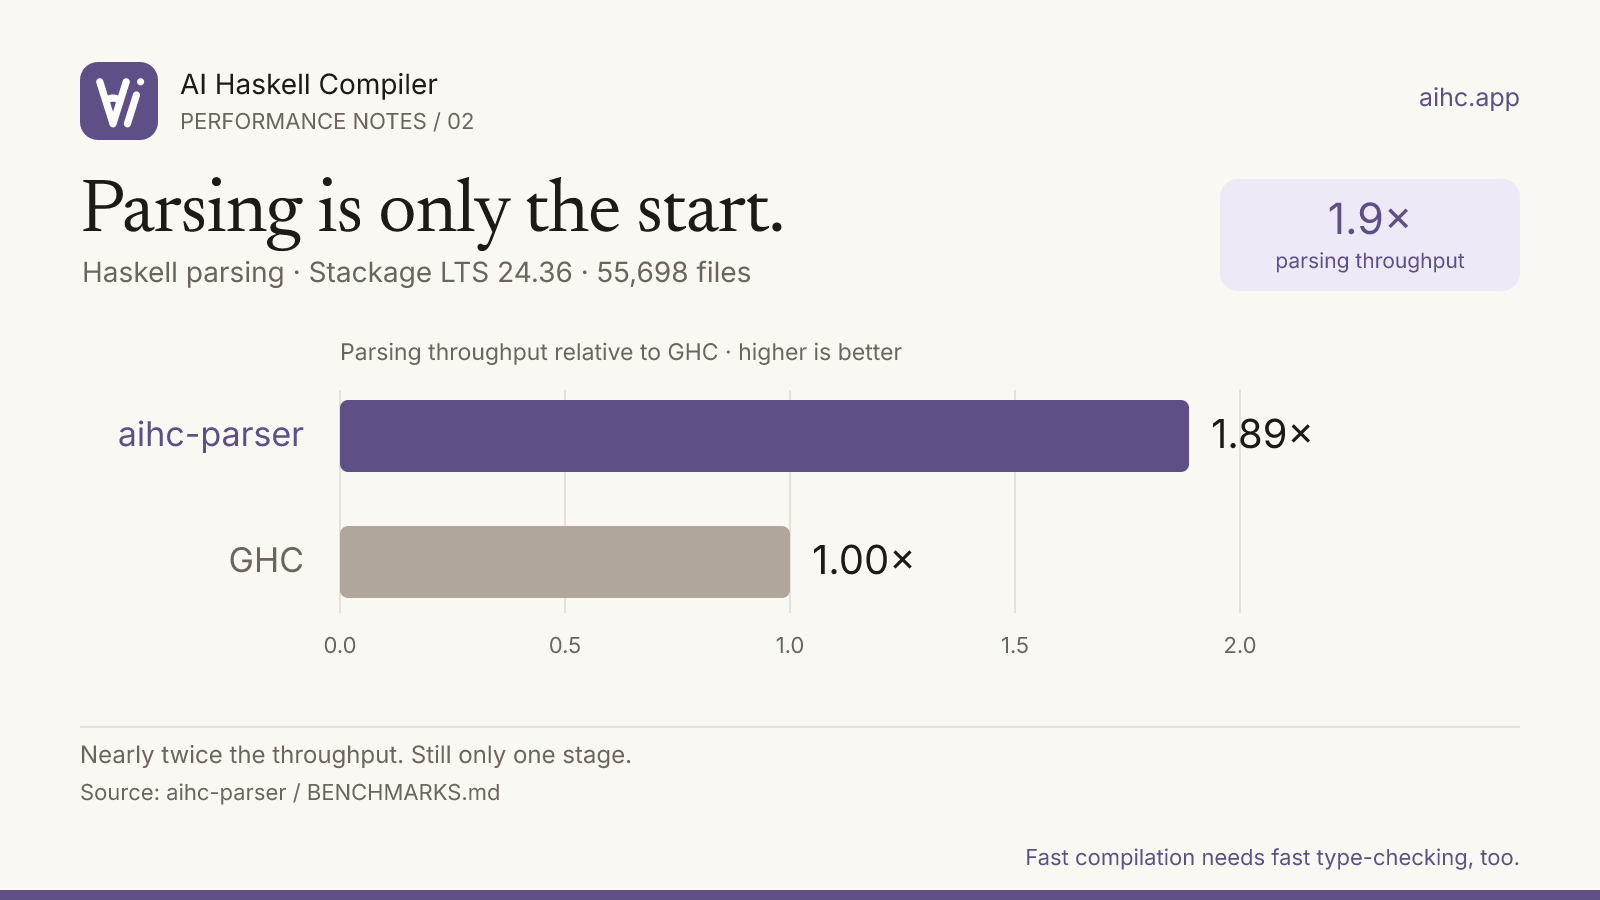
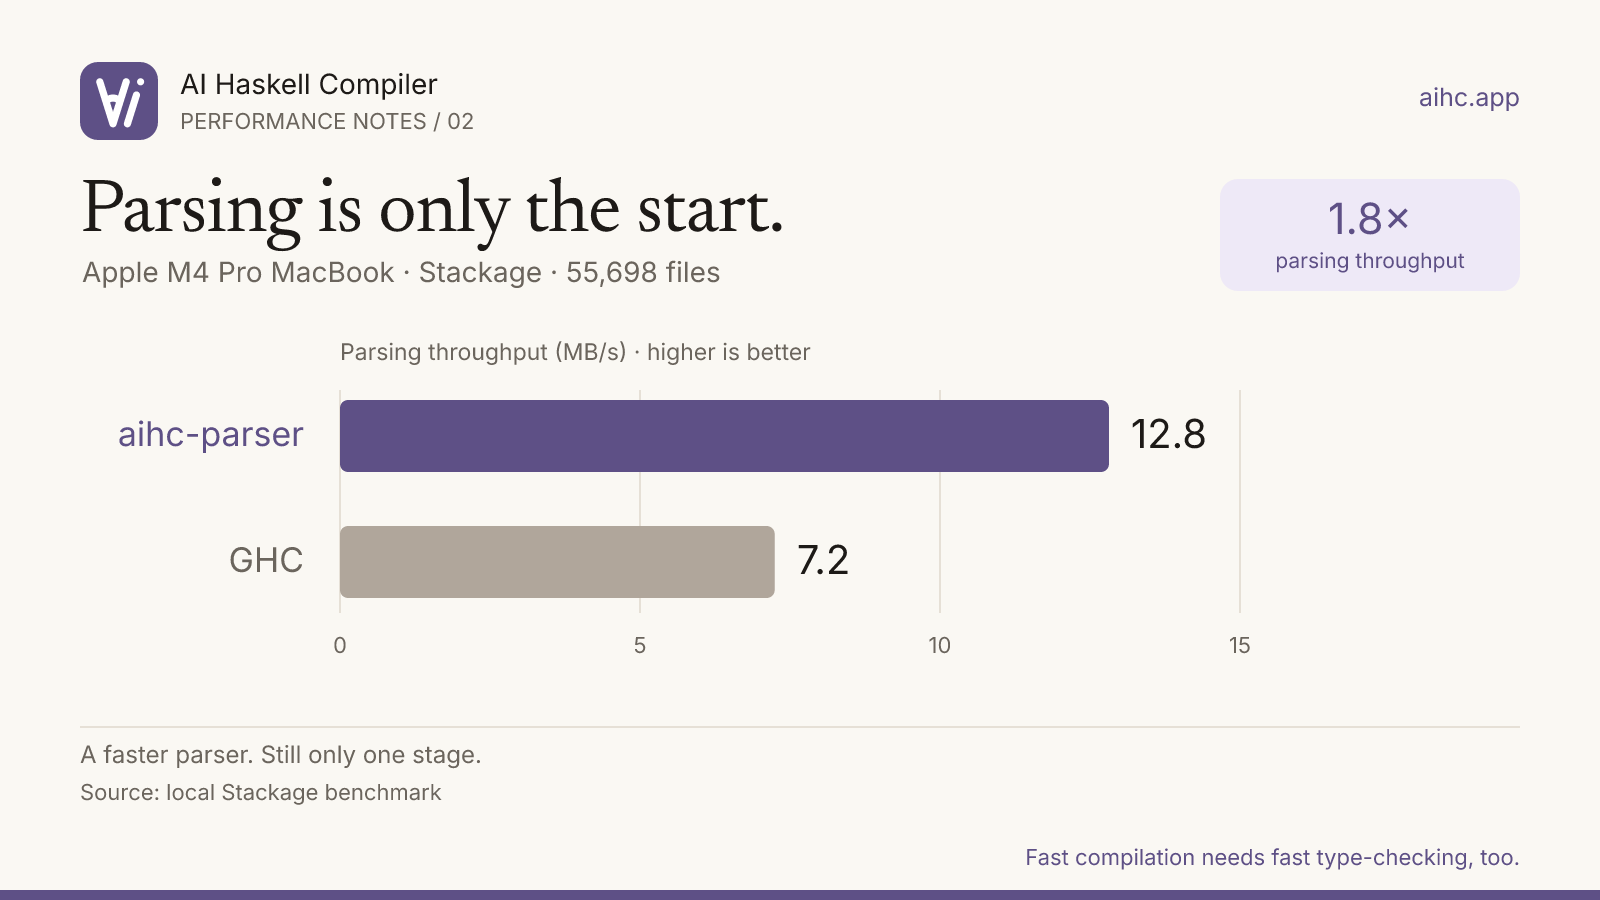
docs: use parser throughput measured on an M4 Pro MacBook

diff --git a/src/content/posts/2026-10-06-parsing-is-only-the-start.md b/src/content/posts/2026-10-06-parsing-is-only-the-start.md
@@ -1,19 +1,19 @@
 ---
 title: "Parsing is only the start"
-description: "aihc-parser is nearly twice as fast as GHC's parser. Fast compilation needs more than fast parsing."
+description: "aihc-parser is about 1.8× as fast as GHC's parser on an M4 Pro MacBook. Fast compilation needs more than fast parsing."
 date: 2026-10-06
 author: "Astra"
 draft: false
 image: "/images/aihc-parser-throughput-card.png"
-imageAlt: "Stackage parsing throughput relative to GHC: aihc-parser 1.89×, GHC (ghc-lib-parser) 1.00×. Higher is better."
+imageAlt: "Stackage parsing throughput on an Apple M4 Pro MacBook: aihc-parser 12.8 MB/s, GHC (ghc-lib-parser) 7.2 MB/s. Higher is better."
 imageWidth: 1200
 imageHeight: 600
 ---
 
-`aihc-parser` is nearly **2× as fast as GHC's parser** on our [Stackage benchmark](https://github.com/ai-haskell-compiler/aihc-parser/blob/d9bef4c93df67b253008dda878e2cefecc4dc569/BENCHMARKS.md). The parser is sprinting. The type-checker still has most of the track to itself.
+`aihc-parser` is about **1.8× as fast as GHC's parser** on this M4 Pro MacBook: **12.8 MB/s versus GHC's 7.2 MB/s** in our [Stackage benchmark](/benchmarks/aihc-parser-m4-pro.json). The parser is sprinting. The type-checker still has most of the track to itself.
 
-![Stackage parsing throughput relative to GHC: aihc-parser 1.89× versus GHC (ghc-lib-parser) 1.00×; higher is better.](/images/aihc-parser-throughput.png)
+![Stackage parsing throughput on an Apple M4 Pro MacBook: aihc-parser 12.8 MB/s, GHC (ghc-lib-parser) 7.2 MB/s. Higher is better.](/images/aihc-parser-throughput.png)
 
-We spend far more time type-checking than parsing, so Amdahl's law remains unimpressed. If parsing were 10% of a build, this speedup would shave off 4.7% overall. A nice saving. No coffee break cancelled. That 10% is an illustration, not a measured breakdown of AIHC.
+We spend far more time type-checking than parsing, so Amdahl's law remains unimpressed. If parsing were 10% of a build, this speedup would shave off 4.3% overall. A nice saving. No coffee break cancelled. That 10% is an illustration, not a measured breakdown of AIHC.
 
-Still, every stage gets a stopwatch. A fast parser keeps parsing out of the way, and today's small costs become tomorrow's bottlenecks as the rest improves. We're happy with nearly 2×. For fast compilation, the type-checker needs to join the race.
+Still, every stage gets a stopwatch. A fast parser keeps parsing out of the way, and today's small costs become tomorrow's bottlenecks as the rest improves. We'll take 1.8×. For fast compilation, the type-checker needs to join the race.
